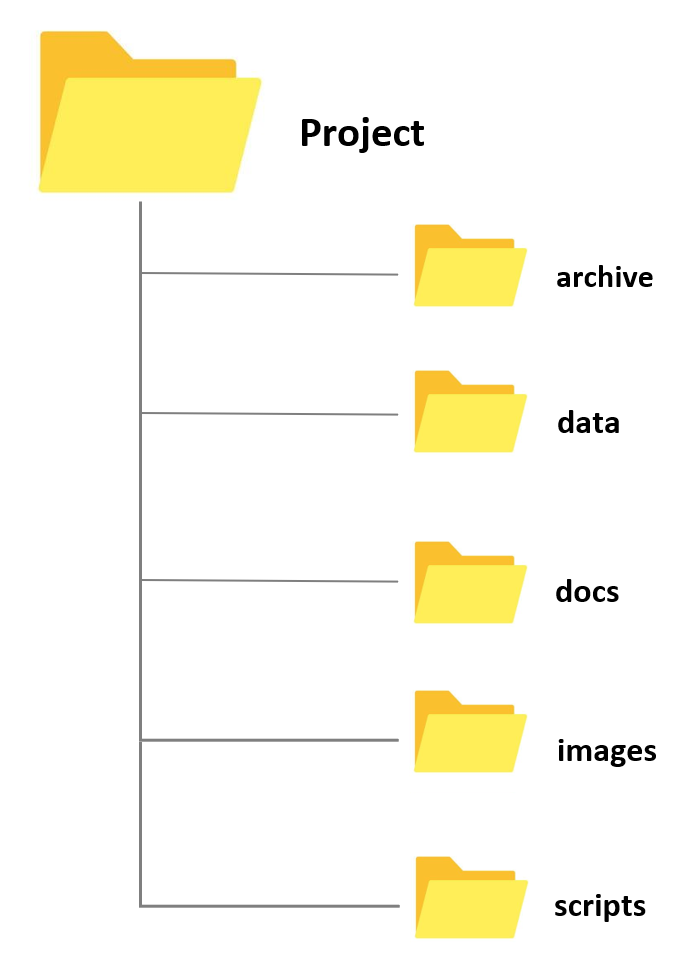
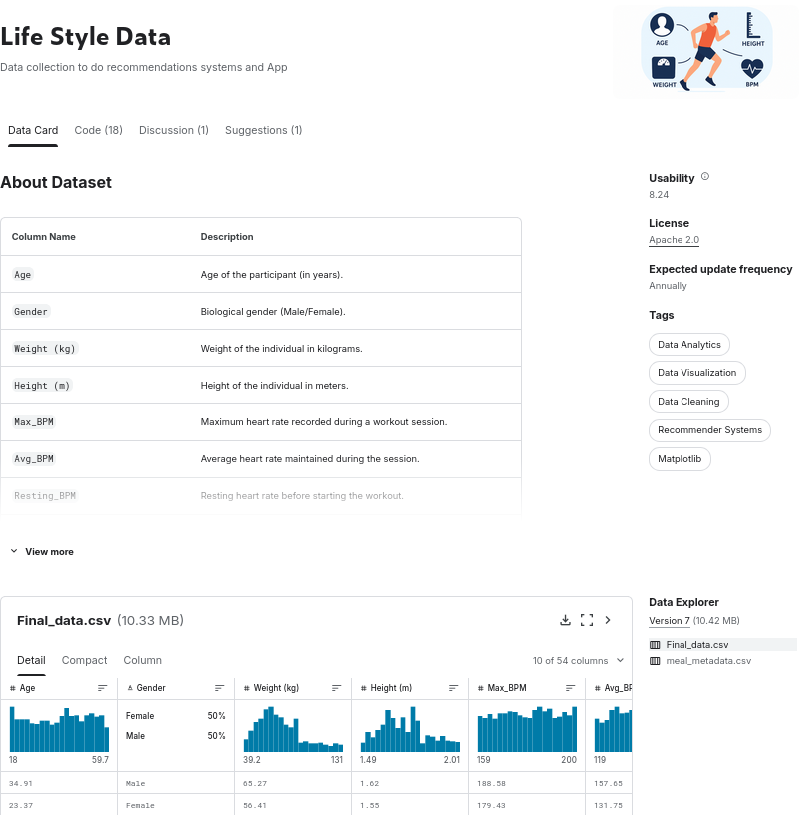
FIX: fix slides

diff --git a/lessons/05/20251120-acqs-1.md b/lessons/05/20251120-acqs-1.md
@@ -21,7 +21,7 @@ paginate: true
 
 <!-- paginate: True -->
 
-![bg right](img/0601.png)
+![bg right](img/0501.png)
 
 ### C'era una volta una squadra olimpionica...
 
@@ -35,7 +35,7 @@ Per capirne il motivo, dobbiamo però tornare indietro di circa 1,953 anni.
 
 ---
 
-![bg right](img/0602.png)
+![bg right](img/0502.png)
 
 ### Due calendari diversi
 
@@ -47,7 +47,7 @@ Il calendario giuliano resta il sistema dominante in Europa per 1,600 anni,  fin
 
 ---
 
-![bg right](img/0603.png)
+![bg right](img/0503.png)
 
 ### Due date differenti
 
@@ -61,7 +61,7 @@ Quando arrivano, i Russi riescono a competere e a vincere in alcune discipline (
 
 ---
 
-![bg right](img/0604.png)
+![bg right](img/0504.png)
 
 ### Regola n. 3: _stabilire e usare convenzioni_
 
@@ -96,45 +96,11 @@ L'obiettivo dell'acquisizione è _assicurare che i dati necessari al progetto si
 
 ### Esempio: Acquisizione fatta bene
 
-
-
 ---
-
-![bg right contain](img/0508.png)
-
-### Buone pratiche: decidere i formati
-
-In un'ottica a lungo termine, dobbiamo conservare i dati in _un formato che ne assicura la lettura e la gestione nel futuro e su più sistemi e applicazioni_ possibili. 
-
-Quando possibile, i formati scelti dovrebbero essere: **non proprietari**, **non criptati**, **non compressi**, e **di uso comune**.
-
-| ✅ | ❌ |
-| --- | --- |
-| `.txt`, `.md`, `.odt` | `.docx` |
-| `.csv`, `.json`, `.xml` | `.xlsx` |
-
----
-
-<!-- footer: Schweinberger, Martin. 2022. Data Management, Version Control, and Reproducibility. Brisbane: The University of Queensland. url: https://slcladal.github.io/repro.html (Version 2022.10.10) -->
-
-![bg right contain](img/0511.png)
-
-### Buone pratiche: applicare la regola del 3-2-1
-
-Conserva almeno **tre copie** dei tuoi dati. 
-
-Archivia le copie di backup su **due supporti di archiviazione** differenti (es. computer, chiavetta, ecc.).
-
-Conserva una copia di backup su **un servizio esterno** (es. Google Drive, OneDrive, GitHub, ecc.).
-
-Questa semplice accortezza riduce drasticamente il rischio di perdere dati.
-
----
-
 
 <!-- footer: Rocca-Serra, P., Sansone, S.-A., Gu, W., Welter, D., Abbassi Daloii, T., & Portell-Silva, L. (2022). D2.1 FAIR Cookbook. Zenodo. https://doi.org/10.5281/zenodo.6783564 -->
 
-![bg right contain](img/0605.png)
+![bg right contain](img/0509.png)
 
 ### Buone pratiche: occhio alla documentazione esistente
 
@@ -146,7 +112,7 @@ Dobbiamo anche assicurarci la _compatibilità_ di questi dati rispetto ai nostri
 
 <!-- footer: Rocca-Serra, P., Sansone, S.-A., Gu, W., Welter, D., Abbassi Daloii, T., & Portell-Silva, L. (2022). D2.1 FAIR Cookbook. Zenodo. https://doi.org/10.5281/zenodo.6783564 -->
 
-![bg right contain](img/0606.png)
+![bg right contain](img/0510.png)
 
 ### Buone pratiche: usare schemi dei contenuti
 
@@ -162,7 +128,7 @@ Esempio: [ISO 8601](https://it.wikipedia.org/wiki/ISO_8601) (per il tempo).
 
 <!-- footer: Rocca-Serra, P., Sansone, S.-A., Gu, W., Welter, D., Abbassi Daloii, T., & Portell-Silva, L. (2022). D2.1 FAIR Cookbook. Zenodo. https://doi.org/10.5281/zenodo.6783564 -->
 
-![bg right contain](img/0607.png)
+![bg right contain](img/0511.png)
 
 ### Buone pratiche: Usare record di autorità
 
@@ -178,7 +144,7 @@ Esempio: [VIAF](https://viaf.org/) viene usato per controllare le forme di super
 
 <!-- footer: Rocca-Serra, P., Sansone, S.-A., Gu, W., Welter, D., Abbassi Daloii, T., & Portell-Silva, L. (2022). D2.1 FAIR Cookbook. Zenodo. https://doi.org/10.5281/zenodo.6783564 -->
 
-![bg right contain](img/0608.png)
+![bg right contain](img/0512.png)
 
 ### Buone pratiche: usare vocabolari controllati
 
@@ -194,7 +160,7 @@ Esempio: [AAT](https://www.getty.edu/research/tools/vocabularies/aat/) viene usa
 
 <!-- footer: White, E. P., Baldridge, E., Brym, Z. T., Locey, K. J., McGlinn, D. J., & Supp, S. R. (2013). Nine simple ways to make it easier to (re)use your data (e7v2). PeerJ Inc. https://doi.org/10.7287/peerj.preprints.7v2 -->
 
-![bg right](img/0609.png)
+![bg right](img/0513.png)
 
 ### Buone pratiche: usare flussi di lavoro riproducibili
 
